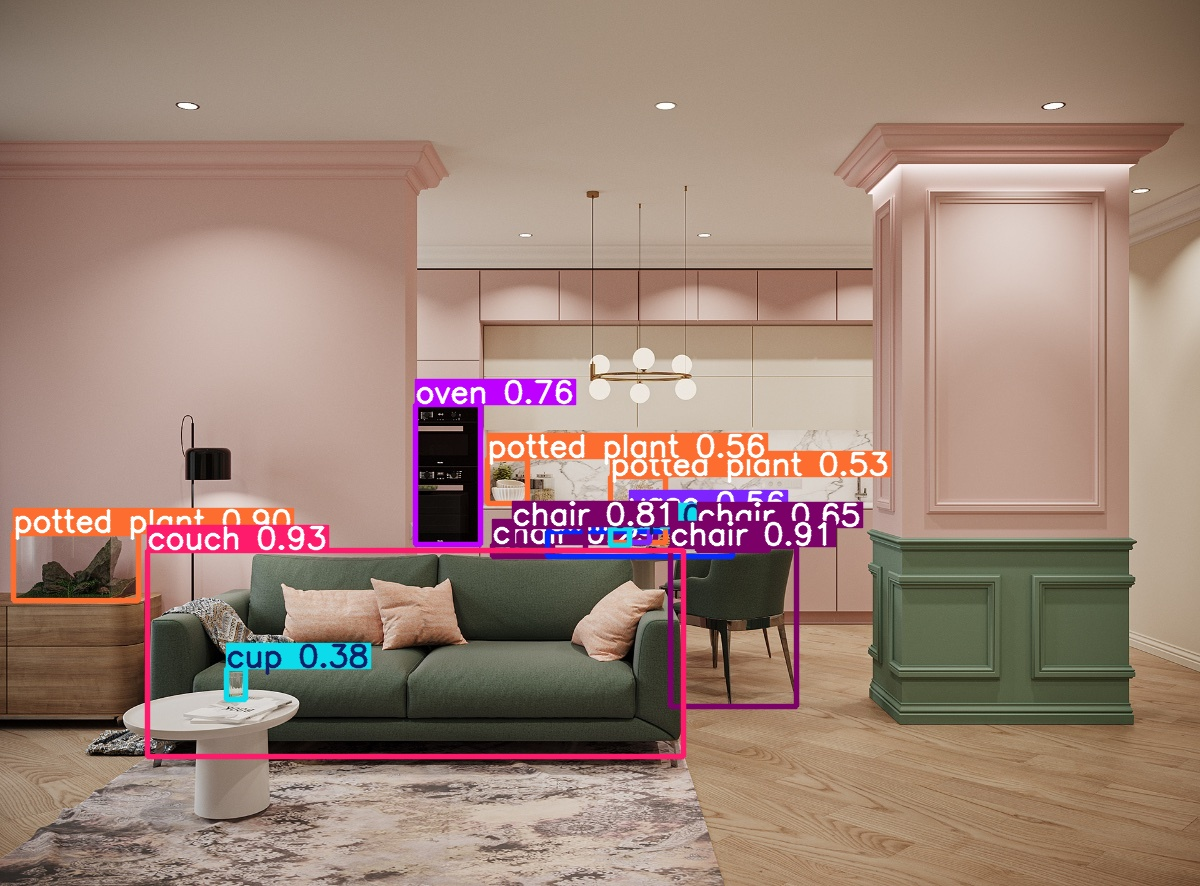
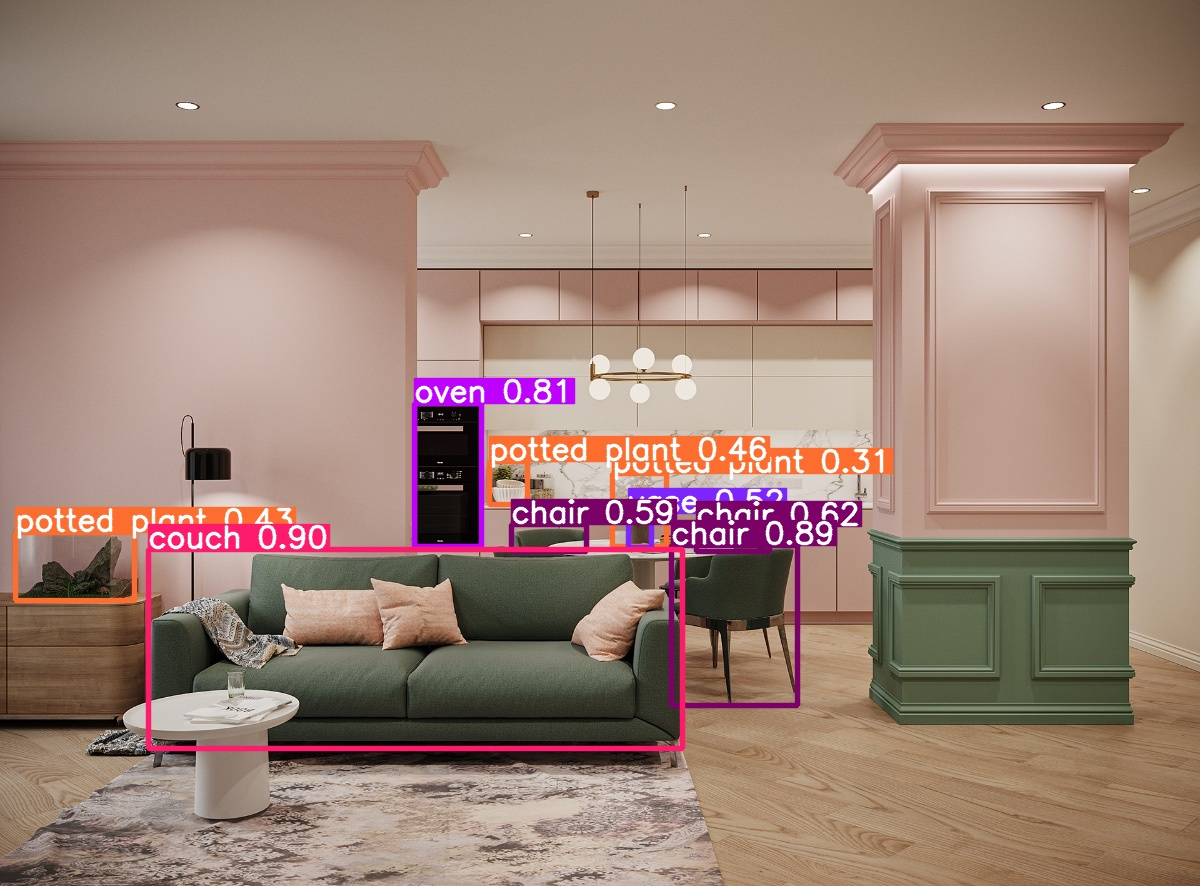
Add files via upload

Changed region(s): [[0.0, 0.4266, 0.74, 0.8837], [0.185, 0.7009, 0.3083, 0.7923], [0.6475, 0.7009, 0.6783, 0.7923]]

diff --git a/index.html b/index.html
@@ -9,6 +9,11 @@
             height: 100%;
             margin: 0;
             padding: 0;
+            background: #000 !important;
+            /* overflow: hidden !important;  <-- allow scroll */
+            width: 100vw;
+            min-width: 100vw;
+            min-height: 100vh;
         }
         body {
             font-family: 'Segoe UI', Arial, sans-serif;
@@ -21,9 +26,10 @@
             display: flex;
             align-items: center;
             justify-content: center;
-            background: none;
+            background: #000 !important;
             position: relative;
             z-index: 0;
+            /* overflow: hidden !important; <-- allow scroll */
         }
         /* Center everything using a flex wrapper */
         .center-wrapper {
@@ -225,8 +231,6 @@
 </div>
 
 <script>
-    // pattern.html removed
-
     const dropArea = document.getElementById('drop-area');
     const fileInput = document.getElementById('file-input');
     const previewImg = document.getElementById('preview');
@@ -387,6 +391,25 @@
             resultMessage.textContent = "Error: " + err;
         });
     });
+
+    // Allow scroll: Remove all scroll prevention code below
+    /*
+    window.addEventListener('scroll', function(e) {
+        window.scrollTo(0, 0);
+    });
+    document.body.addEventListener('touchmove', function(e) {
+        e.preventDefault();
+    }, { passive: false });
+    document.body.addEventListener('wheel', function(e) {
+        e.preventDefault();
+    }, { passive: false });
+    document.body.addEventListener('keydown', function(e) {
+        // Prevent arrow keys, space, page up/down, home/end
+        if (["ArrowUp","ArrowDown","ArrowLeft","ArrowRight"," ","PageUp","PageDown","Home","End"].includes(e.key)) {
+            e.preventDefault();
+        }
+    });
+    */
 </script>
 
 <!-- These hidden elements will be filled by Flask render_template -->

diff --git a/app.py b/app.py
@@ -1,12 +1,11 @@
-afrom flask import Flask, request, render_template, send_file, abort
-from flask import Flask, request, render_template, send_file, abort, send_from_directory
+from flask import Flask, request, render_template, send_file, abort
 from detect_objects import detect_objects
 from classify_scene import classify_scene
 import os
 from werkzeug.utils import secure_filename
 import shutil
 
-app = Flask(__name__, template_folder='.')  # index.html and other html files are in the same folder as this script
+app = Flask(__name__, template_folder='.')  # index.html is in the same folder as this script
 UPLOAD_FOLDER = "uploads"
 os.makedirs(UPLOAD_FOLDER, exist_ok=True)
 
@@ -63,13 +62,6 @@ def output_image(filename):
     if not os.path.exists(file_path):
         abort(404, description="Image not found")
     return send_file(file_path, mimetype="image/jpeg")
-
-# Allow access to any html file in the current directory (for pattern.html, etc.)
-@app.route('/<path:filename>')
-def serve_html(filename):
-    if filename.endswith('.html') and os.path.exists(filename):
-        return send_from_directory('.', filename)
-    abort(404)
 
 if __name__ == "__main__":
     app.run(debug=True)

diff --git a/detect_objects.py b/detect_objects.py
@@ -1,12 +1,16 @@
 from ultralytics import YOLO
 import cv2
 
-model = YOLO("yolov8x.pt")  # big boi version
+model = YOLO("yolov8s.pt")  # Corrected filename to lowercase, as per Ultralytics model naming
 
 def detect_objects(image_path):
     results = model(image_path)
-    results[0].save(filename='output_detected.jpg')
-    labels = results[0].names
-    boxes = results[0].boxes
-    detected = [labels[int(cls)] for cls in boxes.cls]
+    result = results[0]
+    # Save the image with detections
+    result.save(filename='output_detected.jpg')
+    # Get class names
+    labels = result.names
+    # Get detected class indices
+    detected_classes = result.boxes.cls.cpu().numpy() if hasattr(result.boxes.cls, 'cpu') else result.boxes.cls
+    detected = [labels[int(cls)] for cls in detected_classes]
     return list(set(detected)), 'output_detected.jpg'
